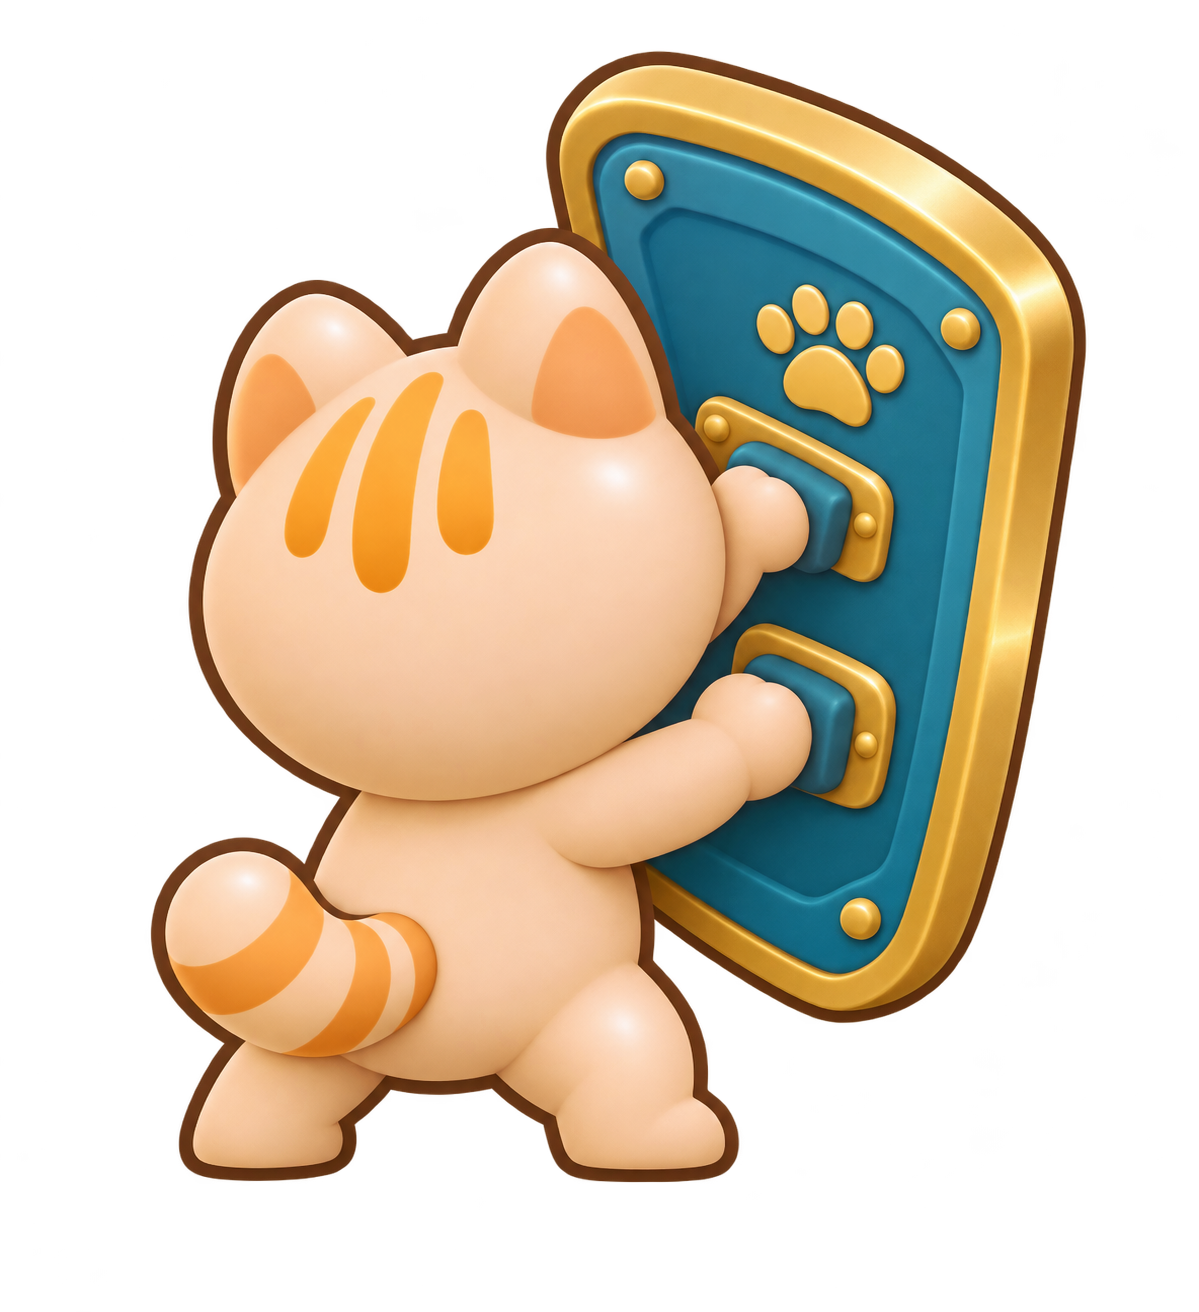
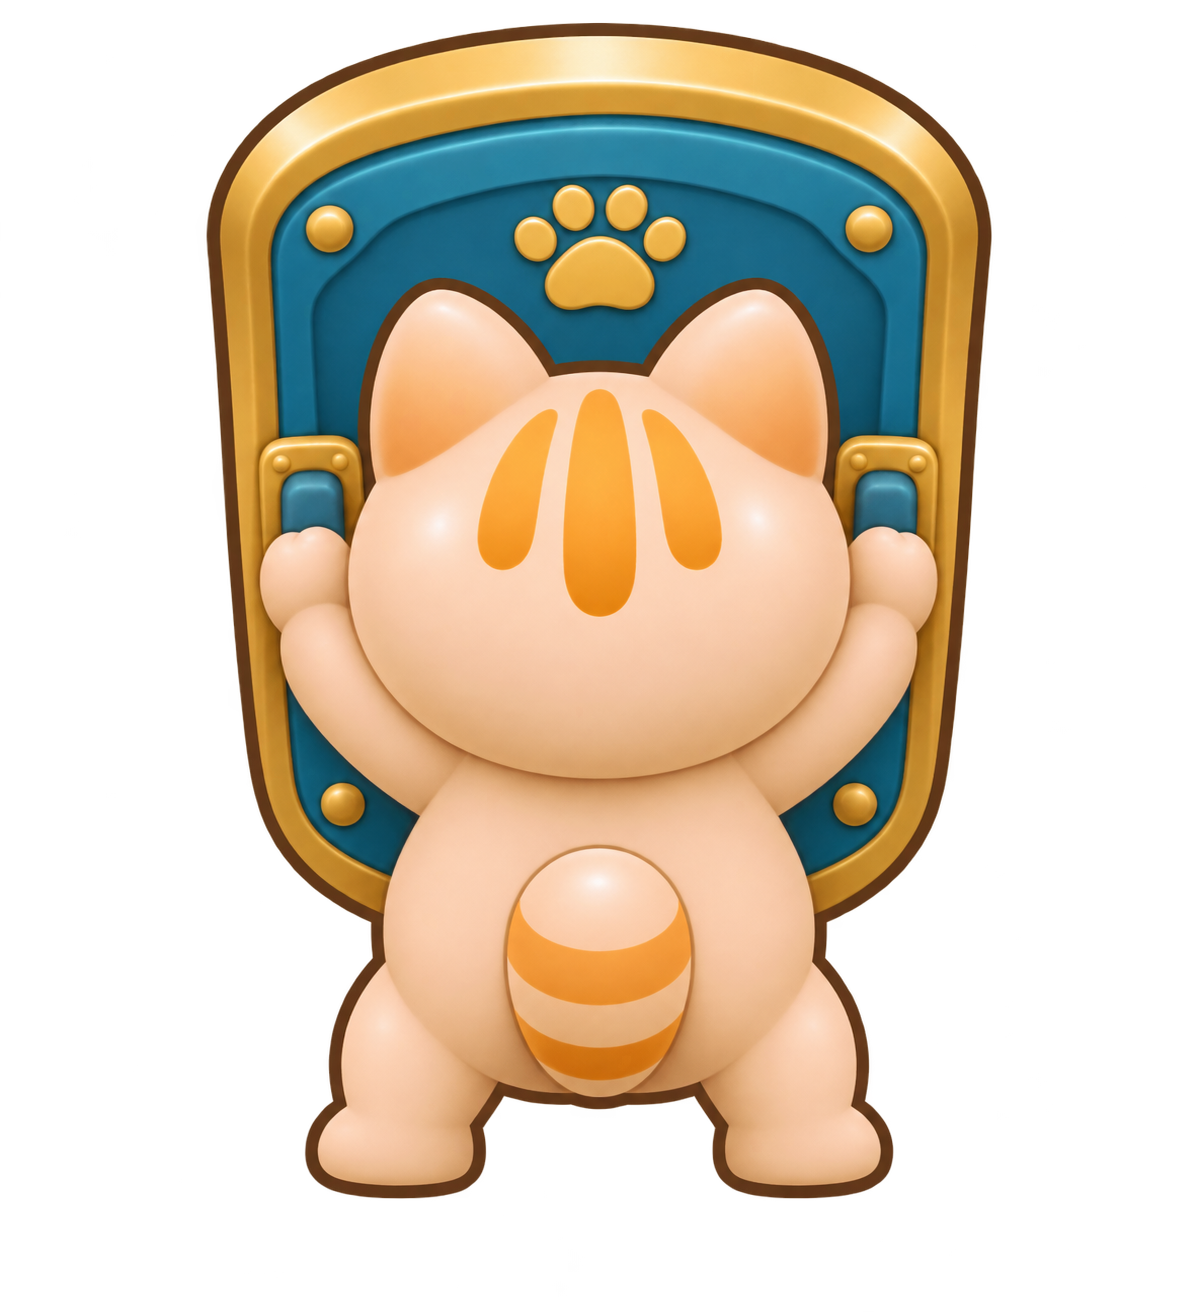
방패 고양이가 적을 정면으로 막도록 자세 수정

diff --git a/app/src/mental/assets/README.md b/app/src/mental/assets/README.md
@@ -121,3 +121,5 @@ TOP LEFT: small blue teardrop panic enemy, pointed top, worried tiny eyes and do
 ## 방어선 구축 방패 고양이 (2026-11-17)
 
 `shield-guard.png`는 기존 `hero-unarmed.png`를 참조해 image_gen으로 생성한 투명 배경 원본이다. 같은 주황 고양이가 청록색 방패를 들고 적을 향한다. 방어선 구축 시 매수벽 앞에 세 마리가 5초간 서며, 전투 배속과 별개로 마지막 0.25초에 사라진다. 동작 줄이기 설정에서는 페이드 없이 숨긴다. 충돌·공격 판정이 없는 연출이다.
+
+2026-11-17 방향 보정: 방패를 몸 중앙 앞에서 양손으로 들고 화면 위쪽의 적을 정면으로 막는 뒷모습으로 수정했다. 기존 방패 고양이 자산을 image_gen으로 편집했으며 투명 배경 원본을 유지한다.
